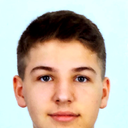
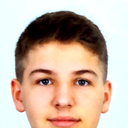
Profilbild: engerer Zuschnitt, aufgehellt, größer mit Ring

diff --git a/src/pages/Home.tsx b/src/pages/Home.tsx
@@ -172,9 +172,9 @@ export function Home({
               <img
                 src="/avatar-128.png"
                 alt="Tim Nagraszus"
-                width={48}
-                height={48}
-                className="h-12 w-12 rounded-full border border-line object-cover"
+                width={72}
+                height={72}
+                className="h-[72px] w-[72px] rounded-full object-cover ring-2 ring-line ring-offset-2 ring-offset-surface"
               />
               <div>
                 <p className="font-serif text-lg leading-tight">Tim Nagraszus</p>

diff --git a/src/App.tsx b/src/App.tsx
@@ -72,9 +72,9 @@ export default function App() {
             <img
               src="/avatar-128.png"
               alt="Porträt von Tim Nagraszus"
-              width={38}
-              height={38}
-              className="h-[38px] w-[38px] rounded-full border border-line object-cover"
+              width={44}
+              height={44}
+              className="h-11 w-11 rounded-full object-cover ring-2 ring-line ring-offset-2 ring-offset-paper"
             />
             <span className="font-serif text-[15px] leading-tight">
               Tim Nagraszus
